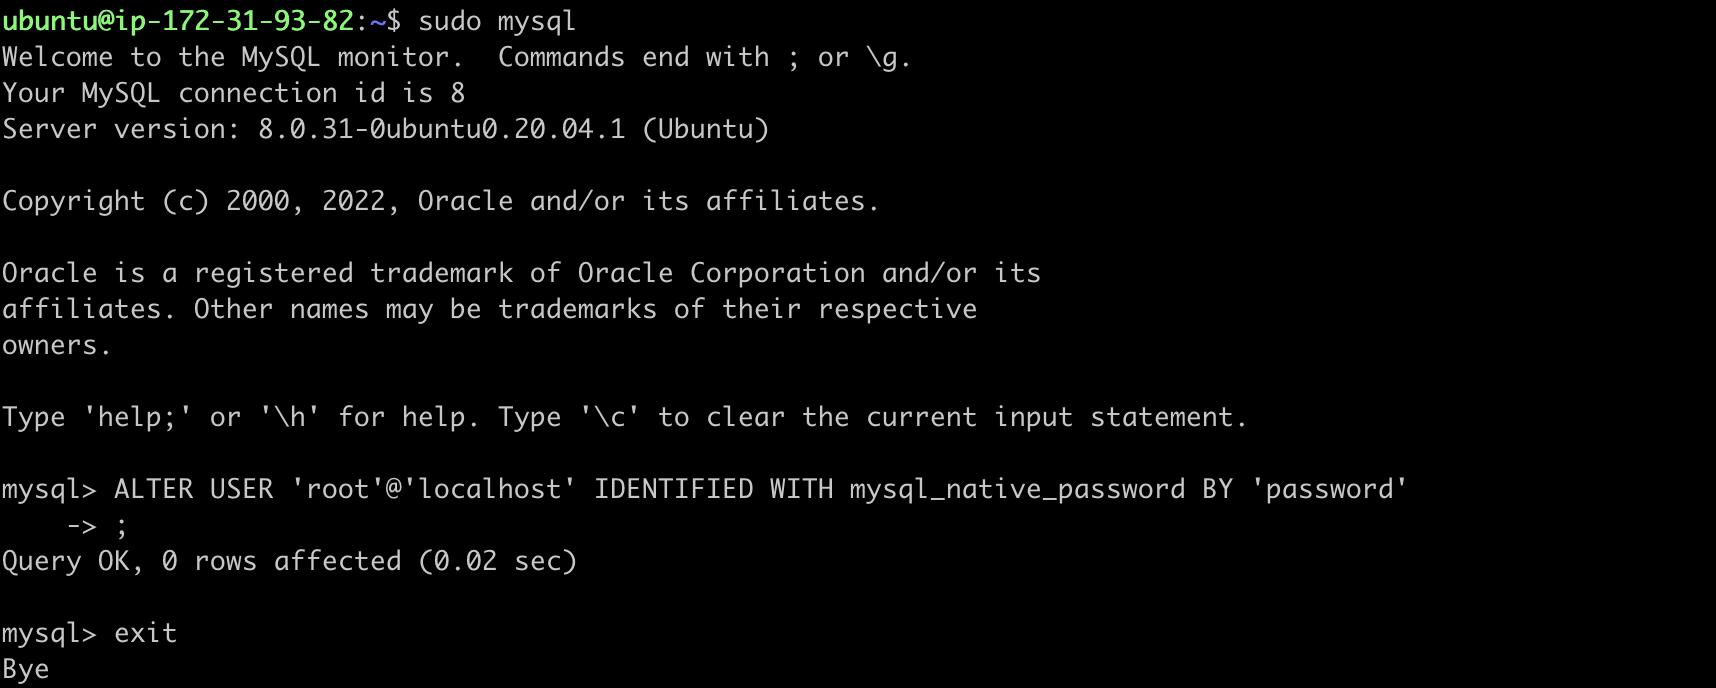
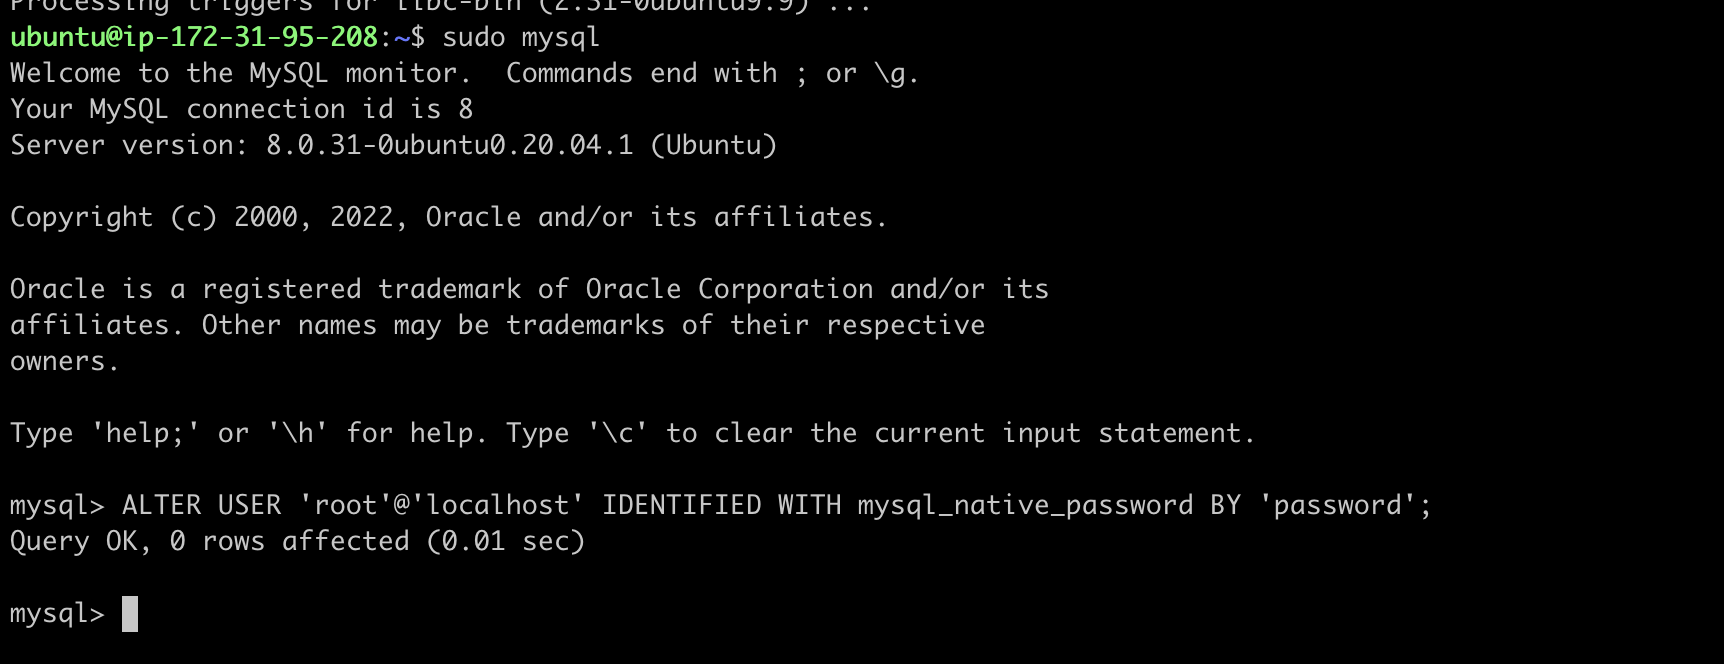
project 2

diff --git a/project2.md b/project2.md
@@ -1,0 +1,215 @@
+# LEMP STACK IMPLEMENTATION ON AWS
+
+## What is a LEMP STACK?
+The LEMP stack is a group of software that can be used to serve dynamic web pages and web applications. This is an acronym that describes a Linux operating system, with an Nginx (pronounced like “Engine-X”) web server. The backend data is stored in the MySQL database and the dynamic processing is handled by PHP.
+
+### Prerequisite :wrench:
+- AWS Account
+
+## Launch EC2 on AWS
+- Login to the aws account
+- Select region from the right hand corner of the dashboard
+![location](./images/project1/region.png)
+
+- Create a keypair from the ec2 instance dashboard and download it
+
+![keypair](./images/project1/keypair.png)
+- Launch an ec2 instance of t2.micro family with ubuntu server 20.04 LTS (HVM)
+![instance](./images/project2/instance.png)
+
+## SSH into the instance
+- Open terminal on your local system and navigate to the folder where the key pair is downloaded
+```
+$ cd ~/Downloads
+```
+- Change permissions for private key file (.pem)
+```
+$ chmod 0400 <private-key-name>.pem
+```
+- Connect to the instance by running
+```
+$ ssh -i <private-key-name>.pem ubuntu@<public-ip-address>
+```
+![ssh](./images/project1/ssh.png)
+
+## Install nginx
+- Update the list of packages in the package manager using
+```
+$ sudo apt update
+```
+- Install nginx using ubuntu package manager
+```
+$ sudo apt install nginx -y
+```
+- verify nginx is running
+```
+$ sudo systemctl status nginx
+```
+![apache2 status](./images/project2/nginx_status.png)
+
+## Edit the security group inbound rule to allow http connection
+- Select the ec2 instance and navigate to the security tab in the ec2 instance dashboard then select the security group
+![security_inbound](./images/project1/security_inbound.png)
+- Edit the inbound rule and add rule to allow http connection on tcp port 80 then click save
+![http_connection](./images/project1/http_connection.png)
+- Access your web server either locally using this command `curl http://localhost:80  or curl http://127.0.0.1:80 ` or on your web browser by accessing the following ip address `http://<Public-IP-Address>:80`. If you see following page, then your web server is now correctly installed and accessible through your firewall.
+![nginx_webpage](./images/project2/nginx_webpage.png)
+
+## Install MySQL and run security script
+- Install mysql using the ubuntu package manager
+```
+$ sudo apt install mysql-server -y
+```
+- Login to mysql console after the installation is finished using the command;
+```
+$ sudo mysql
+```
+- Set a password for the root user, using mysql_native_password as default authentication method to run the security script that comes pre-installed with MySQL. This script will remove some insecure default settings and lock down access to your database system.
+```
+mysql> ALTER USER 'root'@'localhost' IDENTIFIED WITH mysql_native_password BY 'password';
+```
+> Replace 'password' with any password of your choice
+
+- Exit the MySQL shell with:
+```
+mysql> exit
+```
+![mysql](./images/project1/mysql.png)
+- Start the interractive security script by running;
+```
+$ sudo mysql_secure_installation
+```
+![mysql_security_script](./images/project1/mysql_security_script.png)
+- Press _Y_ and hit _ENTER_ for the rest of the question
+> This will prompt you to change the root password, remove some anonymous users and the test database, disable remote root logins, and load these new rules so that MySQL immediately respects the changes you have made.
+- Verify if you are able to login to mysql console by typing the following command then enter your password;
+```
+$ mysql -u root -p
+```
+then enter the password
+- Exit mysql console
+```
+mysql> exit
+```
+![mysql_login](./images/project1/mysql_login.png)
+
+## Install PHP
+You have Nginx installed to serve your content and MySQL installed to store and manage your data. Now you can install PHP to process code and generate dynamic content for the web server.
+
+Nginx requires an external program to handle PHP processing and act as a bridge between the PHP interpreter itself and the web server. This allows for a better overall performance in most PHP-based websites, but it requires additional configuration. You’ll need to install php-fpm, which stands for “PHP fastCGI process manager”, and tell Nginx to pass PHP requests to this software for processing. Additionally, you’ll need php-mysql, a PHP module that allows PHP to communicate with MySQL-based databases. Core PHP packages will automatically be installed as dependencies.
+
+- Install the 2 PHP packages
+```
+$ sudo apt install php-fpm php-mysql -y
+```
+- Confirm your PHP version
+```
+php -v
+```
+![php_version](./images/project1/php_version.png)
+
+## Configure nginx to use php processor
+> When using the Nginx web server, we can create server blocks to encapsulate configuration details and host more than one domain on a single server. In this guide, we will use projectlemp as an example domain name.
+
+> On Ubuntu 20.04, Nginx has one server block enabled by default and is configured to serve documents out of a directory at /var/www/html. While this works well for a single site, it can become difficult to manage if you are hosting multiple sites. Instead of modifying /var/www/html, we’ll create a directory structure within /var/www for the projectlemp website, leaving /var/www/html in place as the default directory to be served if a client request does not match any other sites.
+
+- Create a directory for projectlemp in the `www` folder
+```
+$ sudo mkdir /var/www/projectlemp
+```
+- Assign the ownership of the directory to your current system user
+```
+$ sudo chown -R $USER:$USER /var/www/projectlemp
+```
+- Create and open a new configuration file in nginx's sites-available directory using your preferred command-line editor (e.g vim).
+```
+$ sudo vi /etc/nginx/sites-available/projectlemp
+```
+- Press _i_ to enter the insert mode and paste in the following configuration;
+```
+#/etc/nginx/sites-available/projectlemp
+
+server {
+    listen 80;
+    server_name projectlemp www.projectlemp;
+    root /var/www/projectlemp;
+
+    index index.html index.htm index.php;
+
+    location / {
+        try_files $uri $uri/ =404;
+    }
+
+    location ~ \.php$ {
+        include snippets/fastcgi-php.conf;
+        fastcgi_pass unix:/var/run/php/php7.4-fpm.sock;
+     }
+
+    location ~ /\.ht {
+        deny all;
+    }
+
+}
+```
+> Check the php version installed in your server and edit the line "fastcgi_pass unix:/var/run/php/php7.4-fpm.sock" to "fastcgi_pass unix:/var/run/php/php(version)-fpm.sock;"
+- Save and close the file, simply by hitting _esc_ button and type `:wq` then hit _ENTER_ key
+- Activate your configuration by linking to the config file from Nginx’s sites-enabled directory
+```
+sudo ln -s /etc/nginx/sites-available/projectlemp /etc/nginx/sites-enabled/
+```
+- Confirm your configuration file doesn’t contain syntax errors by running;
+```
+$ sudo nginx -t
+```
+![config_test](./images/project2/config_test.png)
+- Disable default Nginx host that is currently configured to listen on port 80
+```
+sudo unlink /etc/nginx/sites-enabled/default
+```
+- Reload nginx so these changes take effect
+```
+$ sudo systemctl reload nginx
+```
+- Create an index.html file in the projectlemp directory to test the new server block
+```
+sudo echo 'Hello LEMP from hostname' $(curl -s http://169.254.169.254/latest/meta-data/public-hostname) 'with public IP' $(curl -s http://169.254.169.254/latest/meta-data/public-ipv4) > /var/www/projectlemp/index.html
+```
+- Now go to your browser and try to open your website URL using IP address
+```
+http://<Public-IP-Address>:80
+```
+If you see the text from ‘echo’ command you wrote to index.html file, then it means your nginx server block is working as expected.
+
+![index page](./images/project2/index.png)
+
+You can also access your website in your browser by public DNS name and the result must be the same
+```
+http://<Public-DNS-Name>:80
+```
+
+## Test php on nginx
+> You can test to validate that Nginx can correctly handle .php files off to your PHP processor. You can do this by creating a test PHP file in your document root. 
+
+- Open a new file called info.php within your document root in your text editor:
+```
+sudo vi /var/www/projectlemp/info.php
+```
+- Paste the following code into the file
+```
+<?php
+phpinfo();
+```
+- Save and close the file. You can now access this page in your web browser by visiting the domain name or public IP address you’ve set up in your Nginx configuration file, followed by /info.php:
+```
+http://`server_domain_or_IP`/info.php
+```
+- Save and close the file. Then refresh the page and you should have a page similar to this
+
+![php image](./images/project1/php_page.png)
+
+> This page provides information about your server from the perspective of PHP. It is useful for debugging and to ensure that your settings are being applied correctly. If you can see this page in your browser, then your PHP installation is working as expected.
+
+> After checking the relevant information about your PHP server through that page, it’s best to remove the file you created as it contains sensitive information about your PHP environment -and your Ubuntu server. You can use `rm` to do so:
+```
+sudo rm /var/www/projectlamp/index.php
+```

diff --git a/project1.md b/project1.md
@@ -18,7 +18,7 @@ Each letter in the acronym stands for one of its four open-source building block
 
 ## Launch EC2 on AWS
 - Login to the aws account
-- Select region from the left hand corner of the dashboard
+- Select region from the right hand corner of the dashboard
 ![location](./images/project1/region.png)
 
 - Create a keypair from the ec2 instance dashboard and download it
@@ -43,7 +43,7 @@ $ ssh -i <private-key-name>.pem ubuntu@<public-ip-address>
 ![ssh](./images/project1/ssh.png)
 
 ## Install Apache
-- Update the list of packages in the package manager using;
+- Update the list of packages in the package manager using
 ```
 $ sudo apt update
 ```
@@ -77,13 +77,13 @@ $ sudo mysql
 ```
 - Set a password for the root user, using mysql_native_password as default authentication method to run the security script that comes pre-installed with MySQL. This script will remove some insecure default settings and lock down access to your database system.
 ```
-mysql > ALTER USER 'root'@'localhost' IDENTIFIED WITH mysql_native_password BY 'password';
+mysql> ALTER USER 'root'@'localhost' IDENTIFIED WITH mysql_native_password BY 'password';
 ```
 > Replace 'password' with any password of your choice
 
 - Exit the MySQL shell with:
 ```
-mysql > exit
+mysql> exit
 ```
 ![mysql](./images/project1/mysql.png)
 - Start the interractive security script by running;
